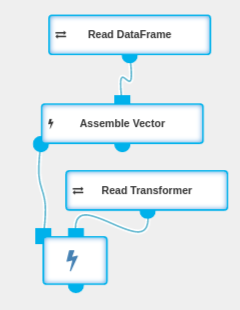
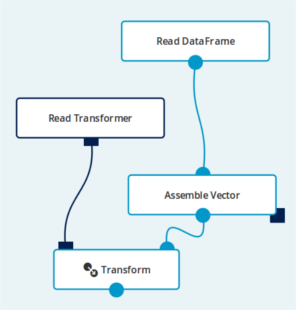
SHR-1015 Update docs for basic examples

Changed region(s): [[0.0292, 0.029, 0.9917, 0.9581]]

diff --git a/docs/basic_examples.md b/docs/basic_examples.md
@@ -31,11 +31,6 @@ the scoring will be produced (model performance report).
 
 #### Create a New Workflow
 
-<p style="text-align:center; float:right" >
-    <img class="img-responsive" style="padding: 1em;" src="./img/examples_workflow1.png" />
-    <em>The Simple Regression Model</em>
-</p>
-
 1. Create an empty workflow:
    * Go to Seahorse main page and click **New workflow**.
    * Put <code>machinelearning1</code> in the **Name** section - setting a meaningful name will help
@@ -43,34 +38,40 @@ the scoring will be produced (model performance report).
    * Press the **Create** button.
    * Start editing the workflow.
 
-2. Set the source of your data:
-   * Drag a [Read DataFrame](operations/read_dataframe.html) operation to your canvas.
-   * Click on the `Read DataFrame` operation - the panel on the right now shows its parameters.
-   * Put <code style="word-break: break-all;">https://s3.amazonaws.com/workflowexecutor/examples/data/transactions.csv</code> in the `SOURCE`
-     parameter - once executed, the dataset will be downloaded from that location.
+1. Set the source of your data:
+   * Right-click on the canvas and select a [Read DataFrame](operations/read_dataframe.html) operation.
+   * Click on the created `Read DataFrame` operation - the panel on the right now shows its parameters.
+   * Select a data source from which you want to read the data. In this case, pick `transactions.csv`.
+     Once the operation gets executed, the dataset will be downloaded from a web address.
 
-3. Select features that will be used to train and evaluate model and create a vector column
+    <p style="text-align:center; float:right" >
+        <img class="img-responsive" style="padding: 1em;" src="./img/examples_workflow1.png" />
+        <em>The Simple Regression Model</em>
+    </p>
+
+1. Select features that will be used to train and evaluate model and create a vector column
    containing selected features' values:
-   * Drag [Assemble Vector](operations/assemble_vector.html) to your canvas.
+   * Drag an edge from the output port of the `Read DataFrame`.
+     Select an [Assemble Vector](operations/assemble_vector.html) operation.
    * In the **INPUT COLUMNS** section:
      * Click **Edit selection**, this will open the selection window for the `INPUT COLUMNS` parameter.
      * Select **Excluding** mode in the top-right corner - this will include all values
          except the ones selected in the features column.
      * Add <code>city</code> and <code>price</code> to the list - we have to exclude the <code>city</code>
        column, because it does not contain numeric values and <code>price</code>, because it contains
-       the actual results
+       the actual results.
    * Put <code>features</code> in the `OUTPUT COLUMN` parameter - the operation will add a column
      with this name to the dataset.
 
-4. Split the dataset into training and test sets:
-   * Drag [Split](operations/split.html) to your canvas.
+1. Split the dataset into training and test sets:
+   * Drag an edge from the middle port of the `Assemble Vector`. Select a [Split](operations/split.html) operation.
    * Put <code>0.7</code> in the `SPLIT RATIO` parameter - we will use 30% of the data for
      training and 70% for evaluation.
    * Put <code>0</code> in the `SEED` parameter - the split operation itself is not deterministic.
      You can put any value here - it will split the dataset differently, but in the same proportions.
 
-5. Use the linear regression algorithm:
-   * Drag [Linear Regression](operations/linear_regression.html) to your canvas.
+1. Use the linear regression algorithm:
+   * Right-click on the canvas and select [Linear Regression](operations/linear_regression.html) operation.
    * In the **FEATURES COLUMN** section:
      * Click **Edit selection**, this will open the selection window for the `FEATURES COLUMN` parameter.
      * Click at **Select by name** and put <code>features</code> in the text field - this will use
@@ -82,22 +83,22 @@ the scoring will be produced (model performance report).
      * Click at **Select by name** and put <code>price</code> in the text field - **price**
        column contains the actual values that we will evaluate our model against.
 
-6. Prepare operations for model fitting and transforming the dataset:
-   * Drag [Fit](operations/fit.html) to your canvas - this operation will be used to fit model to
-     the training set.
-   * Drag [Transform](operations/transform.html) to your canvas - it will transform the dataset
-     using the model fitted in the previous step.
+1. Drag an edge from the output port of the `Linear Regression` and select a [Fit](operations/fit.html) operation.
+   This operation will be used to fit model to the training set.
 
-7. Select evaluation method:
-   * Drag [Evaluate](operations/evaluate.html) to your canvas.
-   * Drag [Regression Evaluator](operations/regression_evaluator.html) to your canvas.
+1. Drag an edge from the output port of the `Fit` and select a [Transform](operations/transform.html) operation.
+   It will transform the dataset using the model fitted in the previous step.
+
+1. Select evaluation method:
+   * Right-click on the canvas and select a [Regression Evaluator](operations/regression_evaluator.html) operation.
      * This operation will create an evaluator for regression algorithms, we will use the default
        evaluation metric (RMSE).
      * Put <code>prediction</code> in the `PREDICTION COLUMN` parameter.
      * Put <code>price</code> in the `LABEL COLUMN` parameter.
      * The evaluator will measure the error between **price** and **prediction** columns.
-
-8. Connect operations as presented in the <em>The Simple Regression Model</em> picture.
+   * Drag an edge from the output port of the `Regression Evaluator` and select
+     an [Evaluate](operations/evaluate.html) operation.
+   * Connect the output port of the `Transform` with the input port of the `Evaluate`.
 
 <div style="clear:both" />
 
@@ -115,14 +116,9 @@ the scoring will be produced (model performance report).
 #### View the Reports
 {:.no_toc}
 
-Click on the report icon under the `Evaluate` node. Report panel with evaluation metrics
-will be shown at the bottom of the screen. These metrics are showing our model's performance.
-In the next example we will try to improve these metrics.
-
-<div class="centered-container" markdown="1">
-  ![Evaluate Regression Report](./img/examples_report1.png){: .centered-image .img-responsive}
-  *The Simple Regression Model's performance*
-</div>
+Click on the report icon under the `Evaluate` node. Report panel with evaluation metric
+will be shown at the bottom of the screen. This metric is showing our model's performance.
+In the next example we will try to improve it.
 
 #### Export the Model
 
@@ -132,10 +128,10 @@ Model training might take a lot of time. It is possible to export trained
 models for further reuse with `Write Transformer` operation.
 An exported model can also be shared with other users.
 
-1.  Drag the `Write Transformer` operation onto your canvas.
-2.  Set **OUTPUT PATH** parameter's value to `/resources/data/model_example_1`.
-3.  Drag the `Fit` output to the `Write Transformer` operation.
-4.  Click **RUN** to execute the workflow again and write the transformer to the specified path.
+1.  Right-click on the canvas and select a `Write Transformer` operation.
+1.  Set **OUTPUT PATH** parameter's value to `/resources/data/model_example_1`.
+1.  Drag the `Fit` output to the `Write Transformer` operation.
+1.  Click **RUN** to execute the workflow again. It will write the transformer to the specified path.
 
 ### Example 2 - Build a Better Model
 
@@ -155,7 +151,7 @@ executing linear regression algorithm on the data.
 
 <p style="text-align:center; float:right" >
     <img class="img-responsive" src="./img/examples_workflow2.png" />
-    <em>The Better Model</em>
+    <em>The Updated Workflow</em>
 </p>
 
 1. Open workflow from **Example 1**.
@@ -165,19 +161,22 @@ executing linear regression algorithm on the data.
      anywhere on the empty space of the canvas.
 
 3. Convert **city** feature to categorical:
-   * Add [String Indexer](operations/string_indexer.html) to the canvas.
+   * Drag an edge from the output port of the `Read DataFrame` and select
+     a [String Indexer](operations/string_indexer.html) operation.
      * This operation will create a new column, <code>city_index</code>, with numbers representing
        text values from the original column.
      * Select <code>one column</code> in `OPERATE ON` selector.
      * Select <code>city</code> in the `INPUT COLUMN`.
      * Select <code>append new column</code> in `OUTPUT` selector.
      * Put <code>city_index</code> in the `OUTPUT COLUMN`.
-   * Add [One Hot Encoder](operations/one_hot_encoder.html) to the canvas.
+   * Drag an edge from the output port of the `String Indexer` and select
+     an [One Hot Encoder](operations/one_hot_encoder.html) operation.
      * This operation will create separate columns for each value from the original column.
      * Select <code>one column</code> in `OPERATE ON` selector.
      * Select <code>city_index</code> in the `INPUT COLUMN`.
      * Select <code>append new column</code> in `OUTPUT` selector.
      * Put <code>city_encoded</code> in the `OUTPUT COLUMN`.
+   * Connect the output port of the `One Hot Encoder` with the input port of the `Assemble Vector`.
    * Modify existing `Assemble Vector` node and add <code>city_index</code> to excluded columns:
      * In the **INPUT COLUMNS** section click **Edit selection**.
      * Add <code>city_index</code> to the list - we only want to add <code>city_encoded</code>
@@ -185,11 +184,6 @@ executing linear regression algorithm on the data.
    * As a result of executing the operations above, our dataset will contain additional
      columns with values <code>0</code> or <code>1</code> for each possible value of the <code>city</code>
      column.
-
-4. Update connections between `Read DataFrame` and `Assemble Vector` nodes as shown in the
-   <em>The Better Model</em> picture.
-   This will execute the operations described in step 2 after reading the dataset and before
-   assembling the <code>features</code> column used for model fitting and evaluation.
 
 <div style="clear:both" />
 
@@ -205,24 +199,17 @@ executing linear regression algorithm on the data.
 Click on the report icon under the `Evaluate` node. As you can see the model performance is much
 better than in the previous example.
 
-<div class="centered-container" markdown="1">
-  ![Evaluate Regression Report](./img/examples_report2.png){: .centered-image .img-responsive}
-  *The Better Model's performance*
-</div>
-
-
 ### Example 3 - Analyze the Data Using a Python Notebook
 
 The goal of this exercise is to show how to use an embedded [Python Notebook](operations/python_notebook.html)
 to interactively analyze data.
 
-#### Create a New Workflow
-
-<p style="text-align:center; float:right" >
-    <img class="img-responsive" style="padding: 1em;" src="./img/examples_workflow3.png" />
+<p style="text-align: center;">
+    <img class="img-responsive centered-image" style="padding: 1em;" src="./img/examples_workflow3.png" />
     <em>Analyze the Data Using a Python Notebook</em>
 </p>
 
+#### Create a New Workflow
 
 * Create an empty workflow:
   * Go to Seahorse main page and click **New workflow**.
@@ -231,12 +218,12 @@ to interactively analyze data.
   * Start editing the workflow.
 
 * Set the source of your data:
-  * Drag [Read DataFrame](operations/read_dataframe.html) operation onto your canvas.
-  * Put <code style="word-break: break-all;">https://s3.amazonaws.com/workflowexecutor/examples/data/grades_2_0.csv</code>
-    in the `SOURCE` parameter - the dataset will be downloaded from this location.
+  * Right-click on canvas and select a [Read DataFrame](operations/read_dataframe.html) operation.
+  * In the `Read DataFrame` parameters, pick the `grades_2.0.csv` data source.
 
 * Process the dataset before opening the notebook:
-  * Drag [Python Transformation](operations/python_transformation.html) to your canvas.
+  * Drag an edge from the output port of the `Read DataFrame` and select
+    a [Python Transformation](operations/python_transformation.html) operation.
   * Put the following code in the `CODE` parameter, in order to extract the <code>FCE</code> value
     from <code>Certificates</code> column to a separate column:
 
@@ -255,11 +242,11 @@ def transform(dataframe):
       "SELECT Math, English, get_fce(Certificates) as FCE FROM df")
 {% endhighlight %}
 
-This snippet of code uses a user-defined SQL function that utilizes Python’s json library in order to parse our `Certificates` column.
+This snippet of code uses a user-defined SQL function that
+utilizes Python’s json library in order to parse our `Certificates` column.
 
-* Use a [Python Notebook](operations/python_notebook.html) to interactively analyze data:
-  * Drag a `Python Notebook` operation from the **Operation Catalogue** onto your canvas.
-  * Connect operations as presented in the <em>Analyze the Data Using a Python Notebook</em> picture.
+* Drag an edge from the middle output port of the `Python Transformation`
+  and select a [Python Notebook](operations/python_notebook.html).
 
 #### Execute and Edit the Python Notebook
 
@@ -457,24 +444,23 @@ exported model. Note that the `Export model` step from Example 1 must be finishe
 
 1. Create an empty workflow.
 2. Import the model:
-   * Drag a `Read Transformer` operation onto your canvas.
+   * Right-click on the canvas and select a `Read Transformer` operation.
    * Set **SOURCE** parameter's value to `/resources/data/model_example_1`.
      This path refers to the model saved in the Example 1.
 3. Load the data to be run with the imported model:
-   * Drag the `Read DataFrame` operation onto your canvas and set parameters as listed in Example 1.
+   * Create a `Read DataFrame` operation and set parameters as explained in Example 1.
      Note that in a real life scenario new data would be used.
 4. The data passed to the model must have the same schema as the data used in training.
    We need to recreate preprocessing from Example 1:
-   * Drag the `Assemble Vector` operation onto your canvas and set parameters as listed in Example 1.
+   * Create an `Assemble Vector` operation and set parameters as explained in Example 1.
 
    Hint: if the data preprocessing is built of many operations it might be a
-   good idea to encapsulate these operations inside a `Custom Transformer`
+   good idea to encapsulate these operations inside a [Custom Transformer](operations/custom_transformer.html)
    operation and export it as well. Importing and using this `Custom Transformer`
    allows user to reuse preprocessing logic.
 5. Use the imported model with new data:
-   * Drag the `Transform` operation onto your canvas.
-   * Drag the `Read Transformer` output to the `Transform` operation input.
-   * Drag the `Assemble Vector` output to the `Transform` operation input.
+   * Drag the edge from the output port of the `Read Transformer` and select a `Transform` operation.
+   * Connect the `Assemble Vector` output with the `Transform` operation input.
    * Click **RUN** to execute the workflow.
 
 To make sure that your imported model is working correctly you can view
